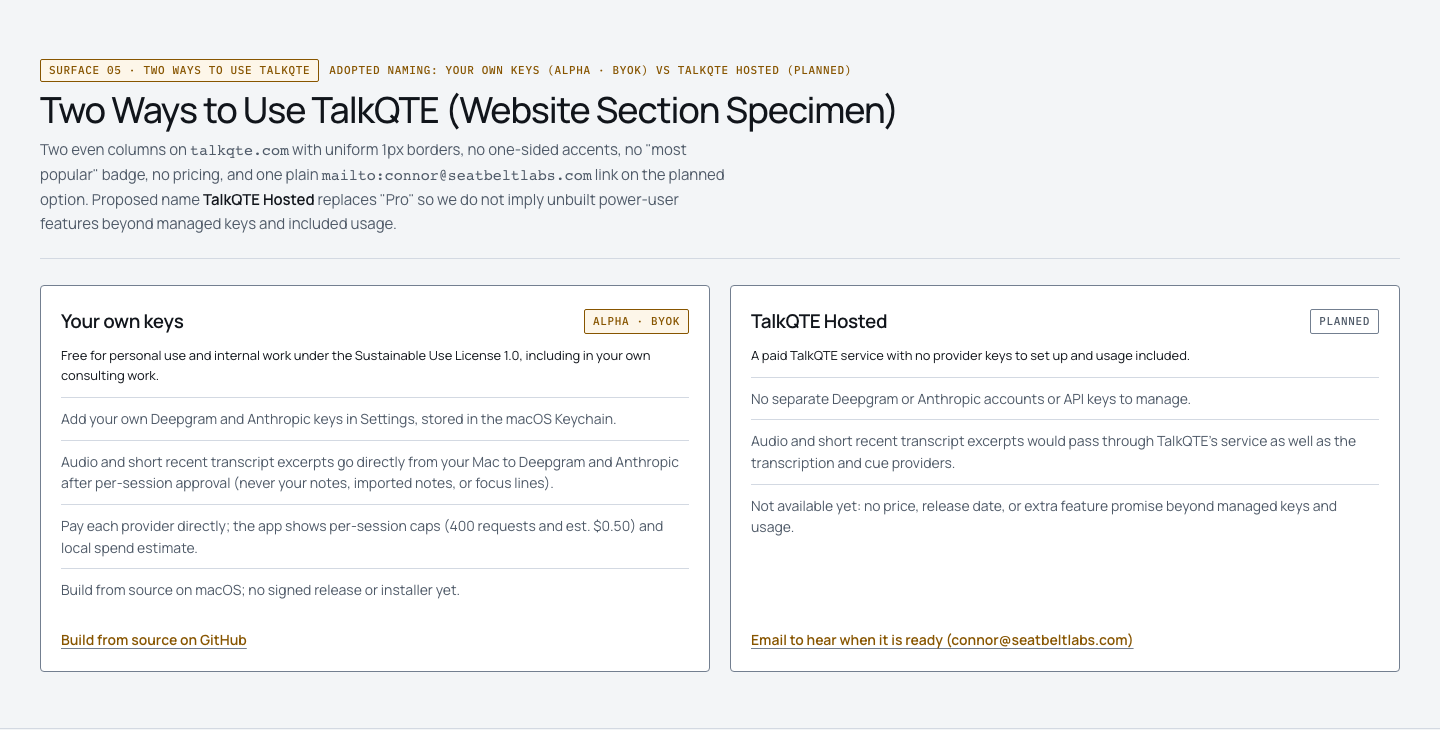
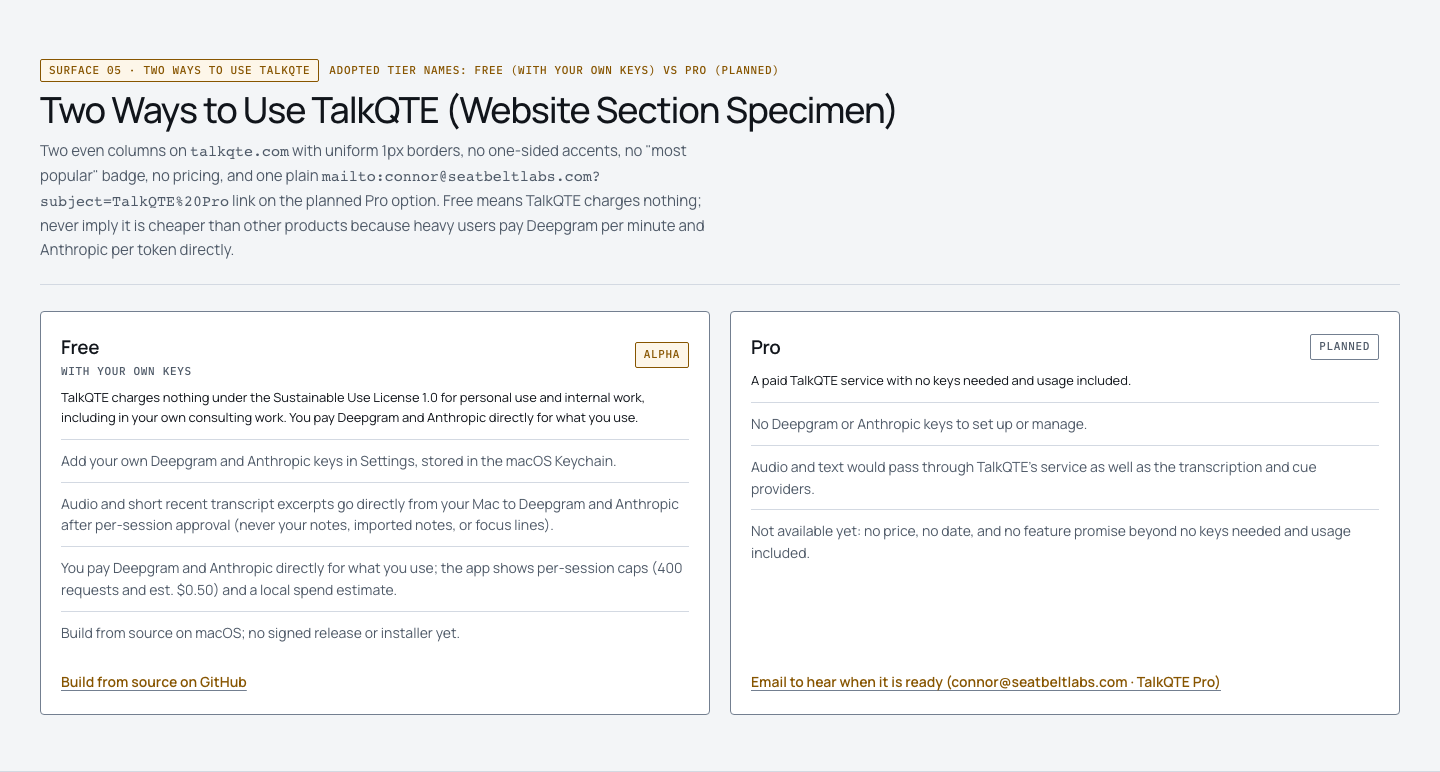
docs(brand): name the tiers Free and Pro

diff --git a/docs/brand/index.html b/docs/brand/index.html
@@ -3839,7 +3839,7 @@ Open items: sign-off window for contract text, draft handoff date.</pre>
           <!-- STEP 1 OF 4 -->
           <div class="spec-title mono-label">
             <strong>Step 1 of 4 · What TalkQTE does (1320 × 880 notebook frame + Two ways element)</strong>
-            <span>Focus lands on h2 · Fictional cue specimen · Your own keys active, TalkQTE Hosted coming later</span>
+            <span>Focus lands on h2 · Fictional cue specimen · Free (with your own keys) active, Pro (Planned) non-selectable</span>
           </div>
           <div class="ob-step-wrap">
             <div class="ob-frame">
@@ -3887,17 +3887,17 @@ Open items: sign-off window for contract text, draft handoff date.</pre>
                       <div class="ob-ways-grid">
                         <div class="ob-way is-active">
                           <div class="sk-row-head">
-                            <strong style="font-size: 14px">Use your own keys</strong>
-                            <span class="sk-chip is-set">Active · BYOK</span>
+                            <strong style="font-size: 14px">Free · with your own keys</strong>
+                            <span class="sk-chip is-set">Alpha</span>
                           </div>
-                          <p class="panel-muted" style="margin-top: 6px; font-size: 12px">Add your own Deepgram and Anthropic keys in the next step. Audio and short recent transcript excerpts go directly from your Mac to those providers.</p>
+                          <p class="panel-muted" style="margin-top: 6px; font-size: 12px">TalkQTE charges nothing; you pay Deepgram and Anthropic directly for what you use. Add your keys in the next step.</p>
                         </div>
                         <div class="ob-way" aria-disabled="true">
                           <div class="sk-row-head">
-                            <strong style="font-size: 14px; color: var(--g-muted)">TalkQTE Hosted</strong>
-                            <span class="sk-chip">Coming later</span>
+                            <strong style="font-size: 14px; color: var(--g-muted)">Pro</strong>
+                            <span class="sk-chip">Planned</span>
                           </div>
-                          <p class="panel-muted" style="margin-top: 6px; font-size: 12px">Paid service with no keys to manage. Not available yet; not selectable in alpha.</p>
+                          <p class="panel-muted" style="margin-top: 6px; font-size: 12px">No keys needed and usage included; audio and text would pass through TalkQTE's service as well as the providers. Not available yet; not selectable.</p>
                         </div>
                       </div>
                     </div>
@@ -3921,7 +3921,7 @@ Open items: sign-off window for contract text, draft handoff date.</pre>
                   <li>Step heading <code>h2</code> (programmatic focus)</li>
                   <li><code>Skip setup</code> button</li>
                   <li><code>Next: Your keys</code> primary button (<code>Back</code> disabled)</li>
-                  <li><em>Cue specimen and Hosted card are non-interactive</em></li>
+                  <li><em>Cue specimen and Pro card are non-interactive</em></li>
                 </ol>
               </div>
               <div class="ob-a11y-row">
@@ -3930,7 +3930,7 @@ Open items: sign-off window for contract text, draft handoff date.</pre>
                   <li>“Step 1 of 4. Alpha, macOS.”</li>
                   <li>“Heading level 2: One quiet cue beside your live call.”</li>
                   <li>Intro paragraph + “Fictional example” cue text and source.</li>
-                  <li>“Two ways to use TalkQTE. Use your own keys, selected. TalkQTE Hosted, coming later, dimmed.”</li>
+                  <li>“Two ways to use TalkQTE. Free, with your own keys, Alpha, active. Pro, Planned, dimmed.”</li>
                   <li>“Skip setup, button. Back, dimmed button. Next: Your keys, button.”</li>
                 </ol>
               </div>
@@ -4218,9 +4218,9 @@ Open items: sign-off window for contract text, draft handoff date.</pre>
             <div class="ob-narrow-card">
               <span class="mono-label" style="color: var(--g-amber-ink)">390px · Step 1 of 4</span>
               <strong class="panel-h3" style="margin-top: 6px">One quiet cue beside your live call</strong>
-              <p class="panel-muted" style="margin-top: 6px; font-size: 12px">Fictional cue card stacks above compact Two ways cards (Use your own keys active; TalkQTE Hosted coming later).</p>
-              <div class="ob-way is-active" style="margin-top: 10px; padding: 8px 10px"><strong style="font-size: 12px">Use your own keys</strong> <span class="mono-label" style="color: var(--g-amber-ink); display: block">Active · BYOK</span></div>
-              <div class="ob-way" style="margin-top: 6px; padding: 8px 10px"><strong style="font-size: 12px; color: var(--g-muted)">TalkQTE Hosted</strong> <span class="mono-label" style="color: var(--g-muted); display: block">Coming later</span></div>
+              <p class="panel-muted" style="margin-top: 6px; font-size: 12px">Fictional cue card stacks above compact Two ways cards (Free with your own keys active; Pro planned).</p>
+              <div class="ob-way is-active" style="margin-top: 10px; padding: 8px 10px"><strong style="font-size: 12px">Free · with your own keys</strong> <span class="mono-label" style="color: var(--g-amber-ink); display: block">Alpha · active</span></div>
+              <div class="ob-way" style="margin-top: 6px; padding: 8px 10px"><strong style="font-size: 12px; color: var(--g-muted)">Pro</strong> <span class="mono-label" style="color: var(--g-muted); display: block">Planned</span></div>
               <div class="sk-actions" style="margin-top: auto; padding-top: 10px"><span class="sk-btn-primary" style="flex: 1">Next</span><span class="sk-btn">Skip</span></div>
             </div>
             <div class="ob-narrow-card">
@@ -4452,11 +4452,11 @@ Date: 2026-11-23 · Length: 06:42
             <div>
               <div class="sheet-kicker">
                 <span class="mono-label badge badge-adopted">Surface 05 · Two Ways to Use TalkQTE</span>
-                <span class="mono-label" style="color: var(--g-amber-ink)">Adopted naming: Your own keys (Alpha · BYOK) vs TalkQTE Hosted (Planned)</span>
+                <span class="mono-label" style="color: var(--g-amber-ink)">Adopted tier names: Free (with your own keys) vs Pro (Planned)</span>
               </div>
               <h2>Two Ways to Use TalkQTE (Website Section Specimen)</h2>
               <p class="studio-line">
-                Two even columns on <code>talkqte.com</code> with uniform 1px borders, no one-sided accents, no "most popular" badge, no pricing, and one plain <code>mailto:connor@seatbeltlabs.com</code> link on the planned option. Proposed name <strong>TalkQTE Hosted</strong> replaces "Pro" so we do not imply unbuilt power-user features beyond managed keys and included usage.
+                Two even columns on <code>talkqte.com</code> with uniform 1px borders, no one-sided accents, no "most popular" badge, no pricing, and one plain <code>mailto:connor@seatbeltlabs.com?subject=TalkQTE%20Pro</code> link on the planned Pro option. Free means TalkQTE charges nothing; never imply it is cheaper than other products because heavy users pay Deepgram per minute and Anthropic per token directly.
               </p>
             </div>
           </div>
@@ -4464,16 +4464,19 @@ Date: 2026-11-23 · Length: 06:42
           <div class="tw-grid">
             <article class="tw-card">
               <div class="sk-row-head">
-                <strong class="panel-h2">Your own keys</strong>
-                <span class="sk-chip is-set">Alpha · BYOK</span>
+                <div>
+                  <strong class="panel-h2">Free</strong>
+                  <span class="mono-label" style="display: block; color: var(--g-muted); margin-top: 2px">With your own keys</span>
+                </div>
+                <span class="sk-chip is-set">Alpha</span>
               </div>
               <p class="panel-muted" style="margin-top: 8px; color: var(--g-ink)">
-                Free for personal use and internal work under the Sustainable Use License 1.0, including in your own consulting work.
+                TalkQTE charges nothing under the Sustainable Use License 1.0 for personal use and internal work, including in your own consulting work. You pay Deepgram and Anthropic directly for what you use.
               </p>
               <ul class="tw-points">
                 <li>Add your own Deepgram and Anthropic keys in Settings, stored in the macOS Keychain.</li>
                 <li>Audio and short recent transcript excerpts go directly from your Mac to Deepgram and Anthropic after per-session approval (never your notes, imported notes, or focus lines).</li>
-                <li>Pay each provider directly; the app shows per-session caps (400 requests and est. $0.50) and local spend estimate.</li>
+                <li>You pay Deepgram and Anthropic directly for what you use; the app shows per-session caps (400 requests and est. $0.50) and a local spend estimate.</li>
                 <li>Build from source on macOS; no signed release or installer yet.</li>
               </ul>
               <span class="sm-text-link">Build from source on GitHub</span>
@@ -4481,18 +4484,18 @@ Date: 2026-11-23 · Length: 06:42
 
             <article class="tw-card">
               <div class="sk-row-head">
-                <strong class="panel-h2">TalkQTE Hosted</strong>
+                <strong class="panel-h2">Pro</strong>
                 <span class="sk-chip">Planned</span>
               </div>
               <p class="panel-muted" style="margin-top: 8px; color: var(--g-ink)">
-                A paid TalkQTE service with no provider keys to set up and usage included.
+                A paid TalkQTE service with no keys needed and usage included.
               </p>
               <ul class="tw-points">
-                <li>No separate Deepgram or Anthropic accounts or API keys to manage.</li>
-                <li>Audio and short recent transcript excerpts would pass through TalkQTE's service as well as the transcription and cue providers.</li>
-                <li>Not available yet: no price, release date, or extra feature promise beyond managed keys and usage.</li>
+                <li>No Deepgram or Anthropic keys to set up or manage.</li>
+                <li>Audio and text would pass through TalkQTE's service as well as the transcription and cue providers.</li>
+                <li>Not available yet: no price, no date, and no feature promise beyond no keys needed and usage included.</li>
               </ul>
-              <span class="sm-text-link">Email to hear when it is ready (connor@seatbeltlabs.com)</span>
+              <span class="sm-text-link">Email to hear when it is ready (connor@seatbeltlabs.com · TalkQTE Pro)</span>
             </article>
           </div>
         </div>

diff --git a/docs/brand/BRAND_GUIDE.md b/docs/brand/BRAND_GUIDE.md
@@ -233,7 +233,7 @@ The notebook moves from warm cream and rounded green pills onto pure white (`#FF
 Shown inside the notebook window (in place of the notebook body) when no service keys are set, and always reachable again from Settings via **"Set up TalkQTE again"**. See [images/onboarding.png](images/onboarding.png) ([2x](images/onboarding-2x.png)).
 
 - **Structure:** Four single-screen steps with a static monospace indicator (`Step 1 of 4` through `Step 4 of 4`, no animated progress bar), `Skip setup`, `Back`, and `Next` (or terminal actions on Step 4) on every step.
-- **Step 1 (What TalkQTE does):** Explains one quiet source-backed cue beside a live call, states that TalkQTE is in alpha, displays the fictional cue specimen (visibly labelled `Fictional example`), and shows the compact **Two ways to use TalkQTE** element (`Use your own keys` active with `Alpha · BYOK`; `TalkQTE Hosted` shown as `Coming later`, `aria-disabled="true"`, not selectable).
+- **Step 1 (What TalkQTE does):** Explains one quiet source-backed cue beside a live call, states that TalkQTE is in alpha, displays the fictional cue specimen (visibly labelled `Fictional example`), and shows the compact **Two ways to use TalkQTE** element (`Free · with your own keys` active with chip `Alpha`; `Pro` shown as `Planned`, `aria-disabled="true"`, not selectable).
 - **Step 2 (Your keys):** Reuses the two `ServiceKeys` rows (Deepgram for transcription, Anthropic for cue decisions), each with a **"Where to get one"** line naming the provider's own dashboard in words (*"Deepgram Console (console.deepgram.com) → API Keys"*, *"Anthropic Console (console.anthropic.com) → API Keys"*, zero external fetches from the app), `Add key`, `Test`, `Replace`, `Remove`, and the plain statement of what each service receives. Displays plainly on screen: **"Test is the only action in setup that sends anything over the network, and only when you press it."** Either key can be skipped. Covers `Not set`, `Set`, and `Rejected` states.
 - **Step 3 (macOS permissions):** Informational only; **nothing is requested on this screen**. Explains **Microphone** (asked by macOS on first session start) and **Screen & System Audio Recording** (asked by macOS only if choosing an application's audio), why each is needed, and that macOS asks, not TalkQTE.
 - **Step 4 (Start a first session):** Explains the exact sequence (`Start live session` → per-session approval: `Review processing` → `Review selected sources` → `Enable for this session`, naming both Deepgram and Anthropic and what each receives; nothing is sent before approval; `Stop` ends capture and sending). Terminal actions: **`Start live session`** (primary) and **`Go to the notebook`** (secondary), alongside `Back` and `Skip setup`.
@@ -292,13 +292,13 @@ Designed for people who use TalkQTE on its own without a separate note-taker (su
 - **Optional later step (`Not built`):** A clearly separated section below a neutral `1px` divider offers **`Summarise with your Anthropic key`**, visibly badged **`Not built`** with a disabled control and plain text stating that live cue decisions never send your notes or full transcript to Anthropic, whereas this separate unbuilt summary step would send the session's transcript and notes to Anthropic using the user's key, and nothing is sent today.
 - **Required documentation & contract update:** Product `main` currently states that the live transcript is never saved or exported. Implementing **Keep this meeting** changes that contract; the own-key lane must update `PRIVACY.md` and `DESIGN.md` alongside the behaviour before shipping.
 
-### 9.3 Two Ways to Use TalkQTE (Naming Proposal & Specimen)
+### 9.3 Two Ways to Use TalkQTE (Free and Pro)
 
-Used both as a two-column section on `talkqte.com` ([images/two-ways.png](images/two-ways.png), [2x](images/two-ways-2x.png)) and as the compact selector element on Onboarding Step 1:
+Used both as a two-column section on `talkqte.com` ([images/two-ways.png](images/two-ways.png), [2x](images/two-ways-2x.png)) and as the compact selector element on Onboarding Step 1 (adopted tier names, owner's choice):
 
-- **Proposed names:** **`Your own keys`** (with a small monospace chip `Alpha · BYOK`, never "BYOK" as the heading) and **`TalkQTE Hosted`** (with chip `Planned`).
-- **Why `TalkQTE Hosted` over `Pro`:** "Pro" implies extra power-user features or a feature tier split, whereas the only planned distinction is a paid TalkQTE service where keys are managed and usage is included, with no price, release date, or extra feature promise. `TalkQTE Hosted` states the exact difference without promising unbuilt features.
-- **Visual rules:** Two equal-width bordered columns on `talkqte.com`, uniform `1px solid --border` all round (no one-sided accents), no "most popular" badge, no pricing, and one plain `mailto:connor@seatbeltlabs.com?subject=TalkQTE%20Hosted` link on `TalkQTE Hosted` (no form, no third-party request).
+- **Free** (`with your own keys` as subtitle or supporting line; small `Alpha` chip, no acronym chip): TalkQTE charges nothing under the Sustainable Use License 1.0 for personal use and internal work (including in your own consulting work). Never say or imply Free is cheaper than other products: heavy users pay Deepgram per minute and Anthropic per token, so state plainly **"you pay Deepgram and Anthropic directly for what you use."** Audio and short recent transcript excerpts go directly from your Mac to Deepgram and Anthropic after per-session approval.
+- **Pro** (`Planned` chip): A planned paid TalkQTE service with no keys needed and usage included; audio and text would pass through TalkQTE's service as well as the transcription and cue providers. Not available yet: no price, no date, and no feature promise beyond no keys needed and usage included.
+- **Visual rules:** Two equal-width bordered columns on `talkqte.com`, uniform `1px solid --border` all round (no one-sided accents), no "most popular" badge, no pricing, and one plain `mailto:connor@seatbeltlabs.com?subject=TalkQTE%20Pro` link on `Pro` (no form, no third-party request). On Onboarding Step 1, `Free · with your own keys` is active and `Pro · Planned` is dimmed (`aria-disabled="true"`) and not selectable.
 
 ---
 
